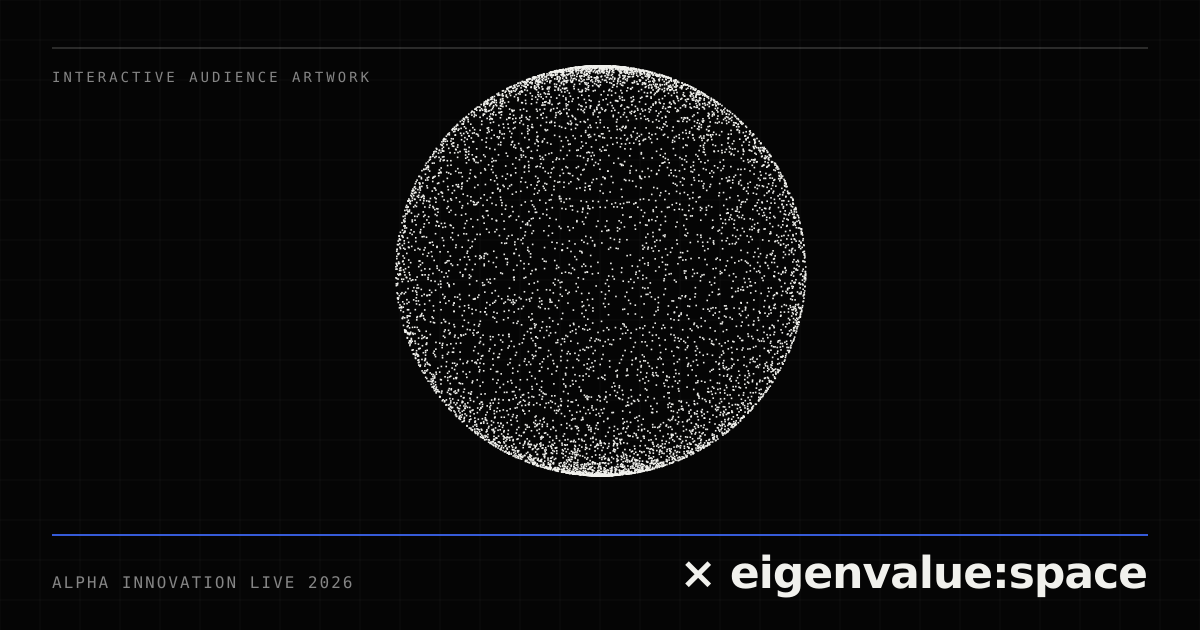
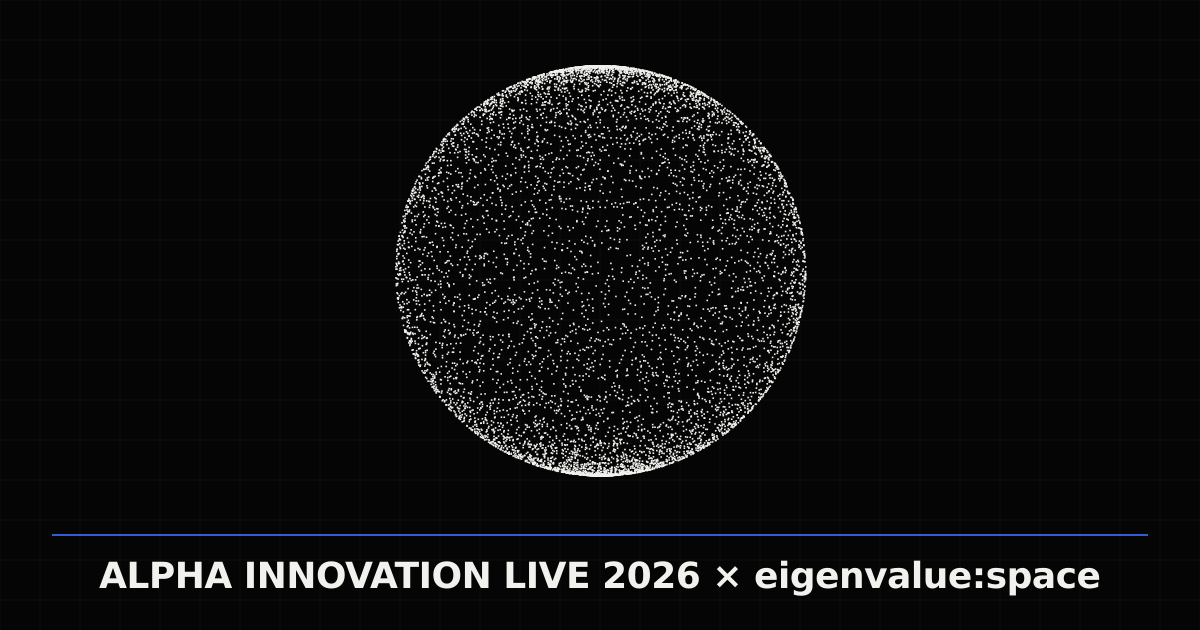
feat: update social media metadata and enhance share preview image

diff --git a/frontend/index.html b/frontend/index.html
@@ -6,12 +6,12 @@
     <meta name="theme-color" content="#050505" />
     <meta name="application-name" content="eigenvalue:space" />
     <meta name="apple-mobile-web-app-title" content="eigenvalue:space" />
-    <meta name="description" content="An interactive audience artwork for phones and tablets." />
+    <meta name="description" content="Where individual signals become a space." />
     <meta property="og:type" content="website" />
     <meta property="og:url" content="https://eigenvalue.space/" />
     <meta property="og:site_name" content="eigenvalue:space" />
     <meta property="og:title" content="eigenvalue:space" />
-    <meta property="og:description" content="An interactive audience artwork for phones and tablets." />
+    <meta property="og:description" content="Where individual signals become a space." />
     <meta property="og:image" content="https://eigenvalue.space/social-preview.png" />
     <meta property="og:image:secure_url" content="https://eigenvalue.space/social-preview.png" />
     <meta property="og:image:type" content="image/png" />
@@ -20,7 +20,7 @@
     <meta property="og:image:alt" content="The eigenvalue:space particle sphere" />
     <meta name="twitter:card" content="summary_large_image" />
     <meta name="twitter:title" content="eigenvalue:space" />
-    <meta name="twitter:description" content="An interactive audience artwork for phones and tablets." />
+    <meta name="twitter:description" content="Where individual signals become a space." />
     <meta name="twitter:image" content="https://eigenvalue.space/social-preview.png" />
     <meta name="twitter:image:alt" content="The eigenvalue:space particle sphere" />
     <link rel="canonical" href="https://eigenvalue.space/" />

diff --git a/frontend/src/metadata.test.ts b/frontend/src/metadata.test.ts
@@ -22,6 +22,12 @@ describe('participant page metadata', () => {
     expect(indexHtml).toContain(
       '<meta name="twitter:card" content="summary_large_image" />',
     )
+    expect(indexHtml).toContain(
+      '<meta property="og:description" content="Where individual signals become a space." />',
+    )
+    expect(indexHtml).toContain(
+      '<meta name="twitter:description" content="Where individual signals become a space." />',
+    )
     expect(indexHtml.toLowerCase()).not.toContain('session pulse')
   })
 
